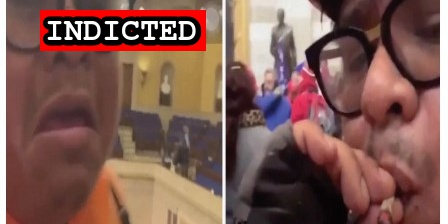
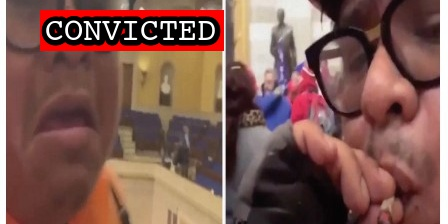
Sandlin conviction

Changed region(s): [[0.0938, 0.0312, 0.5, 0.25]]

diff --git a/docs/_suspects/hatchet-speed.md b/docs/_suspects/hatchet-speed.md
@@ -14,7 +14,8 @@ sentenced:
 dismissed:
 deceased:
 plea_hearing:
-trial_date:
+trial_date: 2023-02-14
+trial_type: Bench Trial
 sentencing:
 age:
 occupation: Defense Contractor (Software Developer)
@@ -27,7 +28,7 @@ courtroom:
 courthouse:
 raid:
 perpwalk:
-quote: 'I’m going in there. Like I have no respect for people in this building. They have no respect for me. I have no respect for them.'
+quote: "I’m going in there. Like I have no respect for people in this building. They have no respect for me. I have no respect for them."
 title: Hatchet Speed charged on June 21st, 2022
 description: Click for latest case details. Suspects innocent until proven guilty.
 author: seditiontrack
@@ -38,6 +39,7 @@ videos:
 charges:
 sentence:
 ---
+
 - [News Report](https://www.msn.com/en-us/news/crime/fbi-navy-petty-officer-arrested-on-capitol-riot-charges-had-arsenal-of-guns-praised-unabomber/ar-AAYNcvq)
 - [Complaint](https://www.justice.gov/usao-dc/case-multi-defendant/file/1514546/download)
 - [Statement of Facts](https://www.justice.gov/usao-dc/case-multi-defendant/file/1514551/download)

diff --git a/docs/_suspects/ronald-sandlin.md b/docs/_suspects/ronald-sandlin.md
@@ -2,18 +2,21 @@
 name: Ronald Sandlin
 lastName: Sandlin
 hashtag: RonaldSandlin
-aka:
+aka: Ronnie Sandlin
 residence: Tennessee
-status: Indicted
+status: Convicted
 date: 2021-01-28
 charged: 2021-01-28
 indicted: 2021-02-05
-convicted:
+convicted: 2022-09-30
+acquitted:
 sentenced:
 dismissed:
 deceased:
 plea_hearing: 2022-09-30
-sentencing:
+trial_date:
+trial_type:
+sentencing: 2022-12-09
 age: 31
 occupation:
 affiliations:
@@ -34,6 +37,14 @@ published: true
 caseNumber: 1:21-cr-88
 videos:
 charges:
+  - code: 18 USC § 1512(k)
+    title: Conspiracy to Obstruct an Official Proceeding
+    url: https://www.law.cornell.edu/uscode/text/18/1512
+    felony: true
+  - code: 18 USC § 111(a)(1), 2
+    title: Assaulting, resisting, or impeding certain officers or employees (Aiding and Abetting)
+    url: https://www.law.cornell.edu/uscode/text/18/111
+    felony: true
 sentence:
 ---
 

diff --git a/docs/_suspects/elias-irizarry.md b/docs/_suspects/elias-irizarry.md
@@ -12,7 +12,7 @@ convicted:
 sentenced:
 dismissed:
 deceased:
-plea_hearing:
+plea_hearing: 2022-10-26
 sentencing:
 trial_date: 2023-01-03
 age: 19
